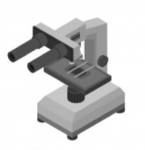
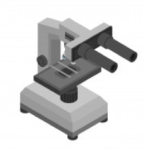
FEATURE / CONTENT / Altera conteúdo de microscopia da Page00

diff --git a/src/pages/Page00/components/ContentCenter/index.js b/src/pages/Page00/components/ContentCenter/index.js
@@ -41,11 +41,13 @@ import FurBanc2 from '../../../../img/manufacturing-macrovector-02-c 8.png';
 import FurBanc2 from '../../../../img/manufacturing-microone-01 6.png';
 */
 
-import MicOti1 from '../../../../img/microscopy-nsit0108-01 1.png';
+/** import MicOti1 from '../../../../img/microscopy-nsit0108-01 1.png';
 import MicOti2 from '../../../../img/microscopy-nsit0108-01 2.png';
 import MicOti3 from '../../../../img/microscopy-nsit0108-01 3.png';
 import MicOti4 from '../../../../img/microscopy-nsit0108-01 5.png';
 import MicOti5 from '../../../../img/microscopy-nsit0108-01 8.png';
+import MicElet from '../../../../img/microscopy-nsit0108-01 9.png'; */
+import microscope from '../../img/microscope.png';
 import Vidraria from '../../../../img/analysis-macrovector-01 1.png';
 import Decant from '../../../../img/analysis-macrovector-01 2.png';
 import Balanca1 from '../../../../img/analysis-macrovector-01 3.png';
@@ -62,7 +64,7 @@ import TubEns from '../../../../img/analysis-macrovector-02-b 4.png';
 import CapsPor from '../../../../img/analysis-macrovector-02-b 1.png';
 import Balanca2 from '../../../../img/analysis-macrovector-02-b 16.png';
 import Centrif from '../../../../img/analysis-macrovector-02-b 14.png';
-import MicElet from '../../../../img/microscopy-nsit0108-01 9.png';
+
 /**
 import Centrif from '../../../../img/analysis-macrovector-01 5.png';
 import Centrif from '../../../../img/analysis-macrovector-01 12.png';
@@ -232,40 +234,10 @@ export default function ContentCenter() {
         <CentralListOfCategories01 title="Medição e análise">
           <CentralListOfCategories02 title="Microscopia">
             <CentralCard01
-              title="Microscópio ótico"
-              imgSrc={MicOti1}
+              title="Microscópios"
+              imgSrc={microscope}
               imgAlt="Microscope"
-              route="/"
-            />
-            <CentralCard01
-              title="Microscópio ótico"
-              imgSrc={MicOti2}
-              imgAlt="Microscope"
-              route="/"
-            />
-            <CentralCard01
-              title="Microscópio ótico"
-              imgSrc={MicOti3}
-              imgAlt="Microscope"
-              route="/"
-            />
-            <CentralCard01
-              title="Microscópio ótico"
-              imgSrc={MicOti4}
-              imgAlt="Microscope"
-              route="/"
-            />
-            <CentralCard01
-              title="Microscópio ótico"
-              imgSrc={MicOti5}
-              imgAlt="Microscope"
-              route="/"
-            />
-            <CentralCard01
-              title="Microscópio eletrônico"
-              imgSrc={MicElet}
-              imgAlt="Microscope"
-              route="/"
+              route="/page01"
             />
           </CentralListOfCategories02>
           <CentralListOfCategories02 title="Química">
